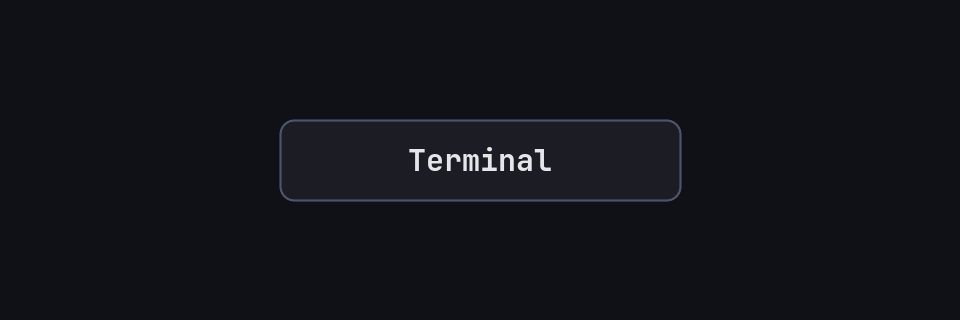
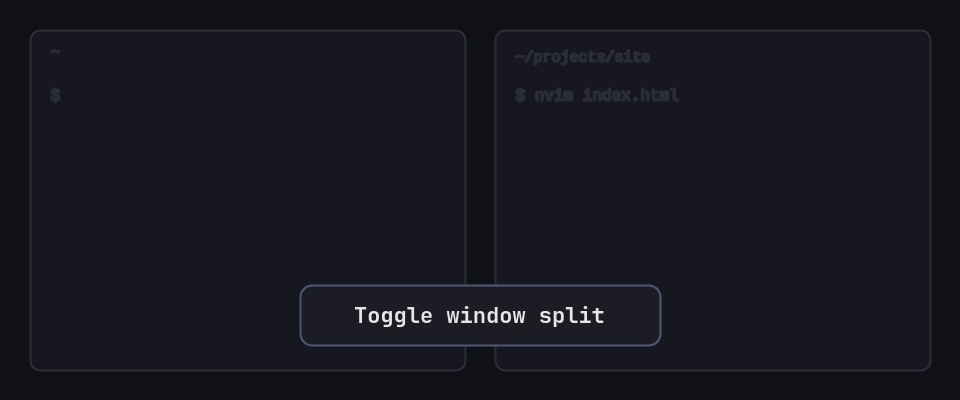
More representative preview image, clearer install steps
Preview now shows a plausible two-pane tiled-terminal scene with the
"Toggle window split" toast, instead of just the toast box on a blank
background.

Install section now has a verification command after each stage
(omarchy-shell ping, hyprctl configerrors) and a concrete "try it" step,
so a broken half-install is obvious immediately instead of silently
doing nothing.

diff --git a/README.md b/README.md
@@ -21,21 +21,40 @@ systems — a shell plugin can't install or edit Hyprland config on its own.
 
 ## Install
 
-1. Install and enable the plugin:
-   ```
-   omarchy plugin add https://github.com/a3qz/omarchy-keybind-toast.git --enable
-   omarchy restart shell
-   ```
-2. Copy the companion Lua file into your Hyprland config:
-   ```
-   cp ~/.config/omarchy/plugins/io.github.a3qz.keybind-toast/hypr/keybind-toast.lua ~/.config/hypr/keybind-toast.lua
-   ```
-3. Require it from `~/.config/hypr/hyprland.lua`, near your other
-   `require("hypr.*")` lines:
-   ```lua
-   require("hypr.keybind-toast")
-   ```
-4. `hyprctl reload`.
+Both halves below are required — the plugin alone renders nothing without
+the Lua file telling it when to fire, and neither half errors loudly if
+you skip it (see Troubleshooting).
+
+**1. Install and enable the plugin:**
+```
+omarchy plugin add https://github.com/a3qz/omarchy-keybind-toast.git --enable
+omarchy restart shell
+```
+Verify it's running — this should print `ok`:
+```
+omarchy-shell keybindToast ping
+```
+
+**2. Wire up the Hyprland half.** Copy the companion Lua file into your
+Hyprland config:
+```
+cp ~/.config/omarchy/plugins/io.github.a3qz.keybind-toast/hypr/keybind-toast.lua ~/.config/hypr/keybind-toast.lua
+```
+Add one line to `~/.config/hypr/hyprland.lua`, alongside your other
+`require("hypr.*")` lines (position relative to them doesn't matter):
+```lua
+require("hypr.keybind-toast")
+```
+Reload, then verify it loaded with no errors — this should print nothing:
+```
+hyprctl reload
+hyprctl configerrors
+```
+
+**3. Try it.** Press a bound key — `SUPER + RETURN` (opens your terminal)
+is a good first one. You should see a small centered box at the bottom of
+the screen reading "Terminal". If nothing appears but step 1 and step 2's
+checks both passed, see Troubleshooting below.
 
 ## Customizing which keybinds toast
 
